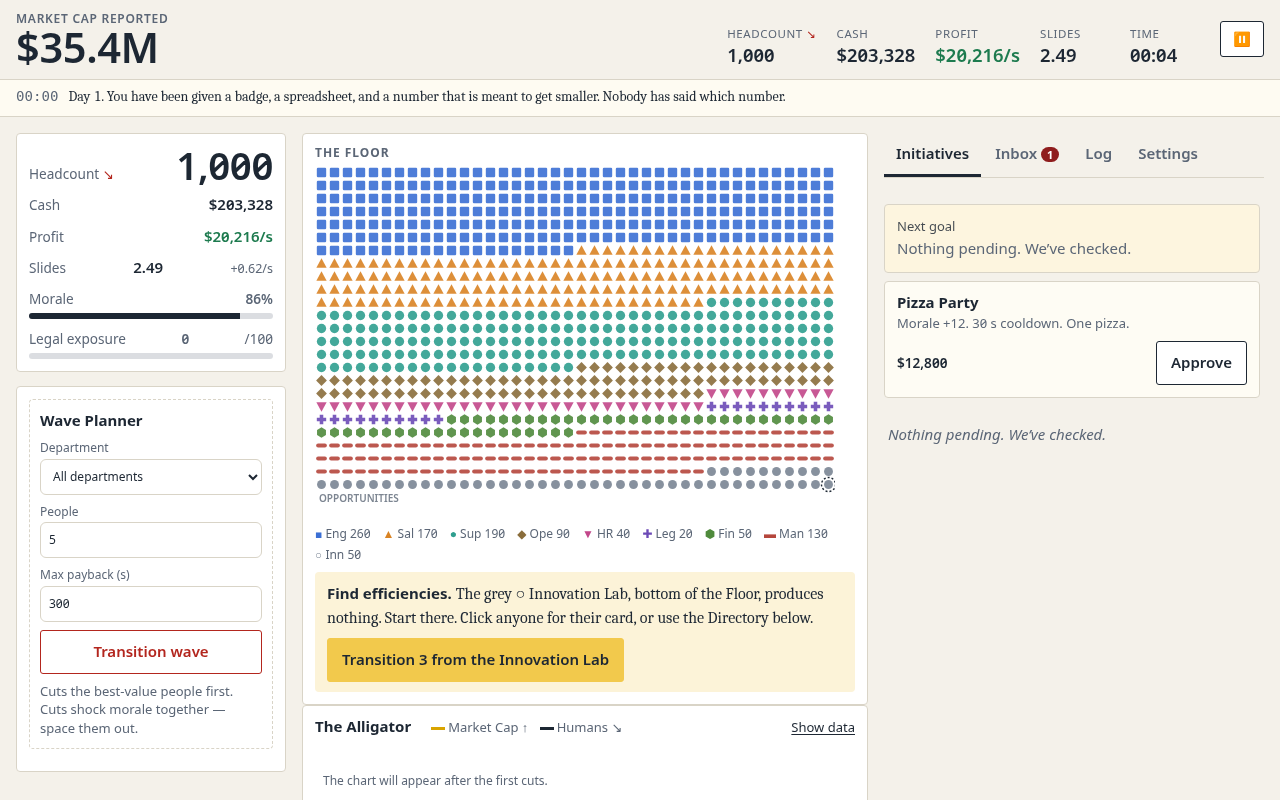
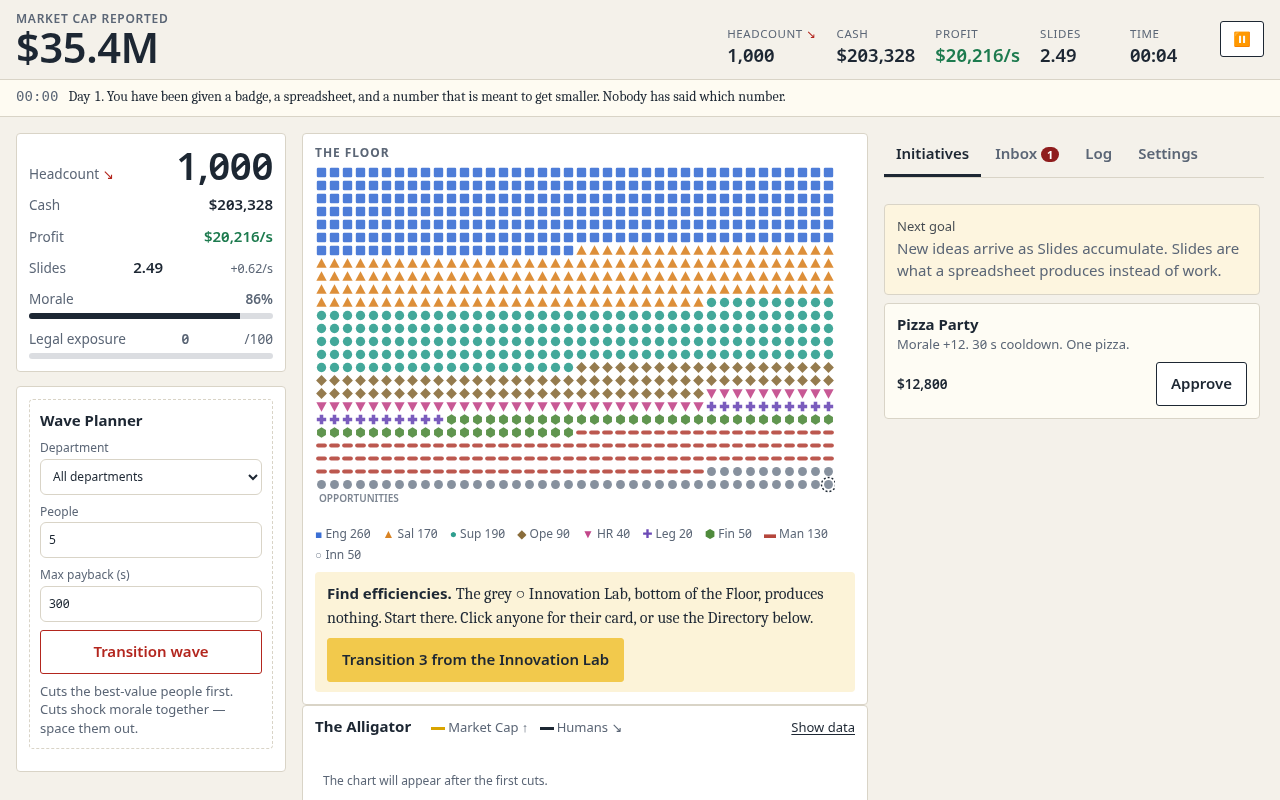
Fix duplicate 'Nothing pending' line, trim CFO tics, re-shoot start screenshot

Changed region(s): [[0.6875, 0.2812, 0.9688, 0.5], [0.6875, 0.5312, 0.875, 0.5625], [0.9062, 0.4375, 0.9688, 0.5]]

diff --git a/src/i18n/en.ts b/src/i18n/en.ts
@@ -113,7 +113,7 @@ export const MAIL: Record<string, Mail> = {
   a1_morale: ['Hollis Trent, CFO', 'Morale', 'Morale is down. Morale has been reclassified as a lagging indicator. I would like it noted that I would have reclassified it as a leading one, and that nobody asked.'],
   a1_lawwarn: ['Legal', 'Exposure', 'Our exposure to a class action is rising. We would be happier if Legal had more than one person in it. Legal would also be happier.'],
   a1_800: ['Dale Pemberton-Ashe', 'Re: Re: Fwd: Vision', 'Can we make the vision 15% smaller? Not the vision. The number next to it. Dale'],
-  a1_600: ['Hollis Trent, CFO', 'A quiet observation', 'We have reached a headcount from which the next cut is a philosophical decision. I do not do philosophy. I am noting it for the file.'],
+  a1_600: ['Hollis Trent, CFO', 'A quiet observation', 'We have reached a headcount from which the next cut is a philosophical decision. I do not do philosophy; I do spreadsheets, which is how we got here.'],
   a1_hollis_slides: ['Hollis Trent, CFO', 'Slides', 'Slides are, I am told, a currency. They are produced mainly by Management, at no stated rate. I would like to see more of them. Please do not read the slides.'],
   a1_ready: ['Dale Pemberton-Ashe', 'Do you have a minute?', 'I have been thinking about what a leaner Nullwater could do next. The Synergy Memo is on your desk. Well, in your Initiatives. Dale'],
   a1_incident: ['IT', 'Ticket #4411: Everything stopped', 'Thanks for reporting. We’ve found the cause: {{name}} was, it turns out, the thing. We have closed the ticket as “resolved by hiring them back”. Please do not hire them back. (They are a consultant now.)'],
@@ -127,10 +127,10 @@ export const MAIL: Record<string, Mail> = {
   a1_copilot: ['Engineering', 'Copilot', 'The Copilot has shipped a feature that nobody asked for. It works. This worries us more than if it hadn’t.'],
   bridge: ['Finance', 'Bridge facility', 'We have secured a bridge facility, from a friendly lender, at a rate we choose not to discuss. Cash has been added. So has a sentence in the footnotes.'],
   advisor_morale: ['Hollis Trent, CFO', 'On morale, briefly', 'Morale is low enough to be binding. People are not machines. People are the machines’ cost centres. Consider a Pizza Party.'],
-  advisor_exposure: ['Hollis Trent, CFO', 'A word about prudence', 'Legal exposure is high. A pause would be prudent. I am writing “prudent” down so there is a record that somebody did.'],
+  advisor_exposure: ['Hollis Trent, CFO', 'A word about prudence', 'Legal exposure is high. A pause would be prudent. Somebody should say “prudent” out loud once, for the minutes.'],
   advisor_slides: ['Hollis Trent, CFO', 'A circular observation', 'We are short of Slides, not of cash. Management makes Slides. I realise this is circular. It is circular.'],
   advisor_info: ['Hollis Trent, CFO', 'Knowing people', 'We are guessing who is useful. Better information exists. It costs Slides, and, in the end, privacy.'],
-  advisor_bid: ['Hollis Trent, CFO', 'A description, not an endorsement', 'There is capacity to borrow and targets to buy. Buying is the plan. I am not endorsing the plan. I am describing it.'],
+  advisor_bid: ['Hollis Trent, CFO', 'A description, not an endorsement', 'There is capacity to borrow and targets to buy. Buying is the plan. Please note which verb I used.'],
   advisor_leverage: ['Hollis Trent, CFO', 'Limits (a footnote)', 'We are at our borrowing limit. There is a thing called leverage, and a thing called a limit, and it would be nice to be near neither.'],
   advisor_demand: ['Hollis Trent, CFO', 'Demand, again', 'Demand is falling as we cut. It is no longer a surprise; it is a trend, and trends are what we have instead of surprises.'],
   advisor_cash: ['Hollis Trent, CFO', 'Cash, as ever', 'Cash is the constraint. Slides are the other constraint. One of them is fictional; I have stopped being sure which.'],
@@ -148,7 +148,7 @@ export const MAIL: Record<string, Mail> = {
   a2_audit: ['Pym, Halloway & Orr', 'Audit Season', 'Our fieldwork begins shortly. You may take us to lunch, restate, switch auditors, or hope. Hope is not an accounting method, though we have seen it adopted.'],
   a2_covenant: ['Hollis Trent, CFO', 'Covenant', 'We are above our borrowing limit. Lenders have sent a cheerful letter. The cheerfulness is the covenant.'],
   a2_warn10: ['Hollis Trent, CFO', 'A concern', 'At this size, prices rise faster than profits. I have been asked to sound reassuring. I will sound like me.'],
-  a2_warn14: ['Hollis Trent, CFO', 'A larger concern', 'Markets do not stay at this level. Markets do not know they are at this level. I am pre-emptively sorry.'],
+  a2_warn14: ['Hollis Trent, CFO', 'A larger concern', 'Markets do not stay at this level. Markets do not know they are at this level. Sorry in advance; I will not be here to say it later.'],
   a2_warn17: ['Hollis Trent, CFO', 'The concern', 'A correction is plausible. It is, to be accurate, more than plausible. It is, to be even more accurate, in the calendar.'],
   a2_correction: ['Hollis Trent, CFO', 'The Correction', 'Valuations fell {{x}}%. This is called a correction because the prior number was an error. We are recovering. “We” are mostly the multiple.'],
   a2_reckoning: ['Pym, Halloway & Orr', 'Findings', 'Our findings are brief, and we regret them. The fiction has been found; we have restated and the market has re-priced. Counsel suggests silence.'],
@@ -157,9 +157,9 @@ export const MAIL: Record<string, Mail> = {
   a3_orc_block: ['Office of Reasonable Concern', 'A concern', 'We note that you have asked for more. We express concern. We would not stop you, but we would be concerned for you in writing.'],
   a3_leak: ['Hollis Trent, CFO', 'Revenue per customer', 'Revenue per customer is falling. Example: Dale’s wage → Dale’s spending → our revenue. We fired Dale. (We have not fired Dale. We have fired the other Dales.)'],
   a3_bnpl: ['Treasury', 'Buy-now-pay-later', 'Customers can now buy now and pay later. “Later” is a feature. We’ve added a graph of “later” to the gauges.'],
-  a3_minsky_warn: ['Hollis Trent, CFO', 'Household debt', 'Household debt is rising to a level that the textbook calls “a moment”. I do not wish to be there for the moment.'],
+  a3_minsky_warn: ['Hollis Trent, CFO', 'Household debt', 'Household debt is rising to a level that the textbook calls “a moment”. I would like to be elsewhere for the moment.'],
   a3_minsky: ['Treasury', 'A Minsky moment', 'Households stopped paying at once. It was a very polite stop. The model calls it a liquidity preference event.'],
-  a3_closure50: ['Hollis Trent, CFO', 'The multiple', 'The multiple is no longer a number. It is an attitude. I will be monitoring the attitude.'],
+  a3_closure50: ['Hollis Trent, CFO', 'The multiple', 'The multiple is no longer a number. It is an attitude. It is trending confident.'],
   a3_lastcust: ['Hollis Trent, CFO', 'The last customer', 'One cell of the field flashed amber and became blue. All customers are now Colleagues. I have not found a way to be sad about this on the spreadsheet.'],
   a4_start: ['Dale Pemberton-Ashe', 'The final review', 'Hi. We’re in the last mile. I have been told I can’t review myself. So I’ve asked the Initiative to review everyone. Starting with the Board. Dale'],
   a4_r0: ['Board', 'Re: Review', 'Seven directors. Eleven other boards each. The Board has, in a sense, never been less present, and, in another sense, was never present.'],

diff --git a/src/ui/panels.tsx b/src/ui/panels.tsx
@@ -164,7 +164,6 @@ export function Initiatives() {
       <div class="goal card"><span class="muted small">{t('init.next')}</span>{next ? <><b>{initName(next.i.id)}</b><span>{t('init.afford')} <b>{eta(next.e)}</b></span></> : <span class="muted">{t('init.wait')}</span>}</div>
       {gens}
       {list.map((i) => <Card key={i.id} id={i.id} />)}
-      {!list.length ? <div class="muted empty">{t('init.none')}</div> : null}
       {owned.length ? <details open={open} onToggle={(e) => setOpen((e.target as HTMLDetailsElement).open)}><summary>{t('init.owned')} ({owned.length})</summary><ul class="ownedlist">{owned.map((i) => <li key={i.id}>{initName(i.id)}</li>)}</ul></details> : null}
     </div>
   );
